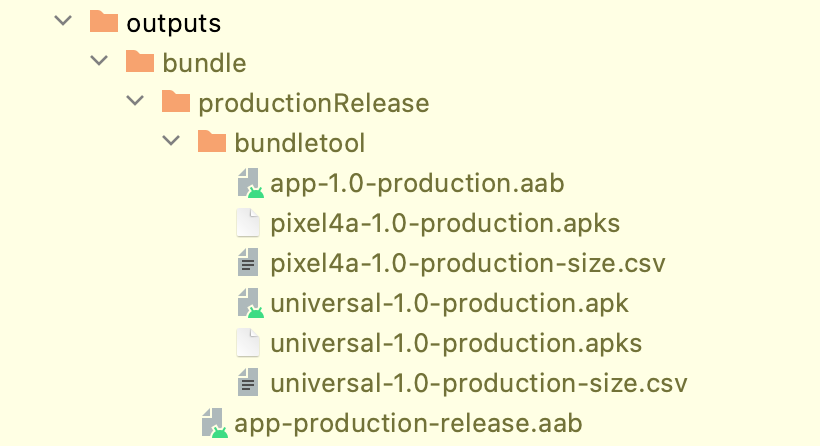
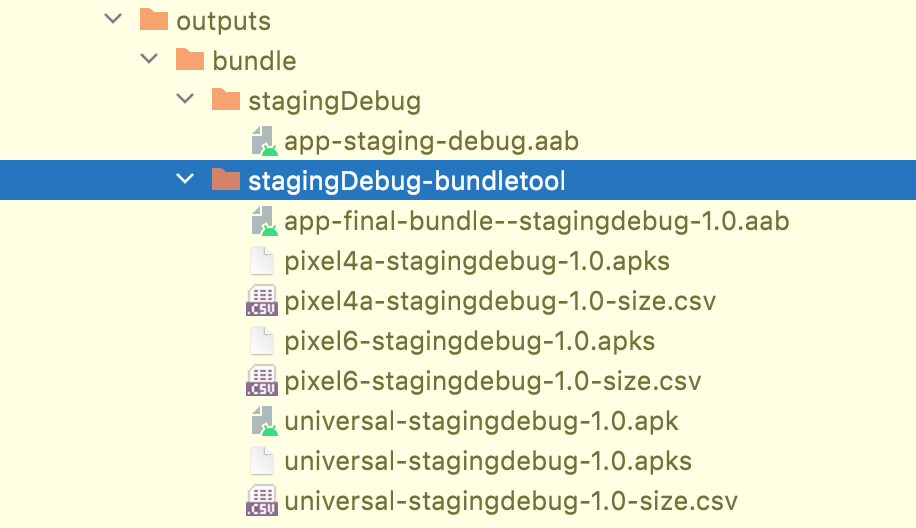
fix: use variant name + version name for artifacts
Move out our products from original bundle directory as well, to avoid some cache issues

Changed region(s): [[0.0, 0.0, 1.0, 0.991]]

diff --git a/bundle-tool-plugin/plugin/src/main/kotlin/me/xx2bab/bundletool/BundleToolPlugin.kt b/bundle-tool-plugin/plugin/src/main/kotlin/me/xx2bab/bundletool/BundleToolPlugin.kt
@@ -64,7 +64,7 @@ class BundleToolPlugin : Plugin<Project> {
                 enableGetSizeFeature = featureGetSize
                 enableInstallApksFeature = featureInstallApks
                 projectName.set(project.name)
-                this.variantName.set(variantName)
+                this.variantName.set(variant.name.toLowerCase(Locale.ROOT))
                 this.versionName.set(versionName)
                 finalBundleProperty.set(finalBundle)
                 signingConfigData = SigningConfigDataProvider.create(
@@ -75,7 +75,8 @@ class BundleToolPlugin : Plugin<Project> {
                 buildToolInfo.set(variant.getBuildToolInfo())
                 adbFileProvider.set(androidExtension.sdkComponents.adb)
                 outputDirProperty.fileProvider(finalBundle.map {
-                    File(it.asFile.parentFile, "bundletool")
+                    val dirName = it.asFile.parentFile.name + "-bundletool"
+                    File(it.asFile.parentFile.parentFile, dirName)
                 })
             }
             variant.getExtension(BundleToolVariantExtension::class.java)!!

diff --git a/bundle-tool-plugin/plugin/src/main/kotlin/me/xx2bab/bundletool/BundleToolTask.kt b/bundle-tool-plugin/plugin/src/main/kotlin/me/xx2bab/bundletool/BundleToolTask.kt
@@ -72,10 +72,10 @@ abstract class BundleToolTask : DefaultTask() {
     @TaskAction
     fun transform() {
         val outDir = outputDirProperty.get().asFile
-        val fileNameSuffix = "-${versionName.get()}"
+        val fileNameSuffix = "-${variantName.get()}-${versionName.get()}"
 
         // Put a copy of final aab to our /bundletool directory
-        val inputAabFile = File(outDir, "${projectName.get()}$fileNameSuffix.aab")
+        val inputAabFile = File(outDir, "${projectName.get()}-final-bundle-$fileNameSuffix.aab")
         if (inputAabFile.exists()) {
             inputAabFile.delete()
         }
